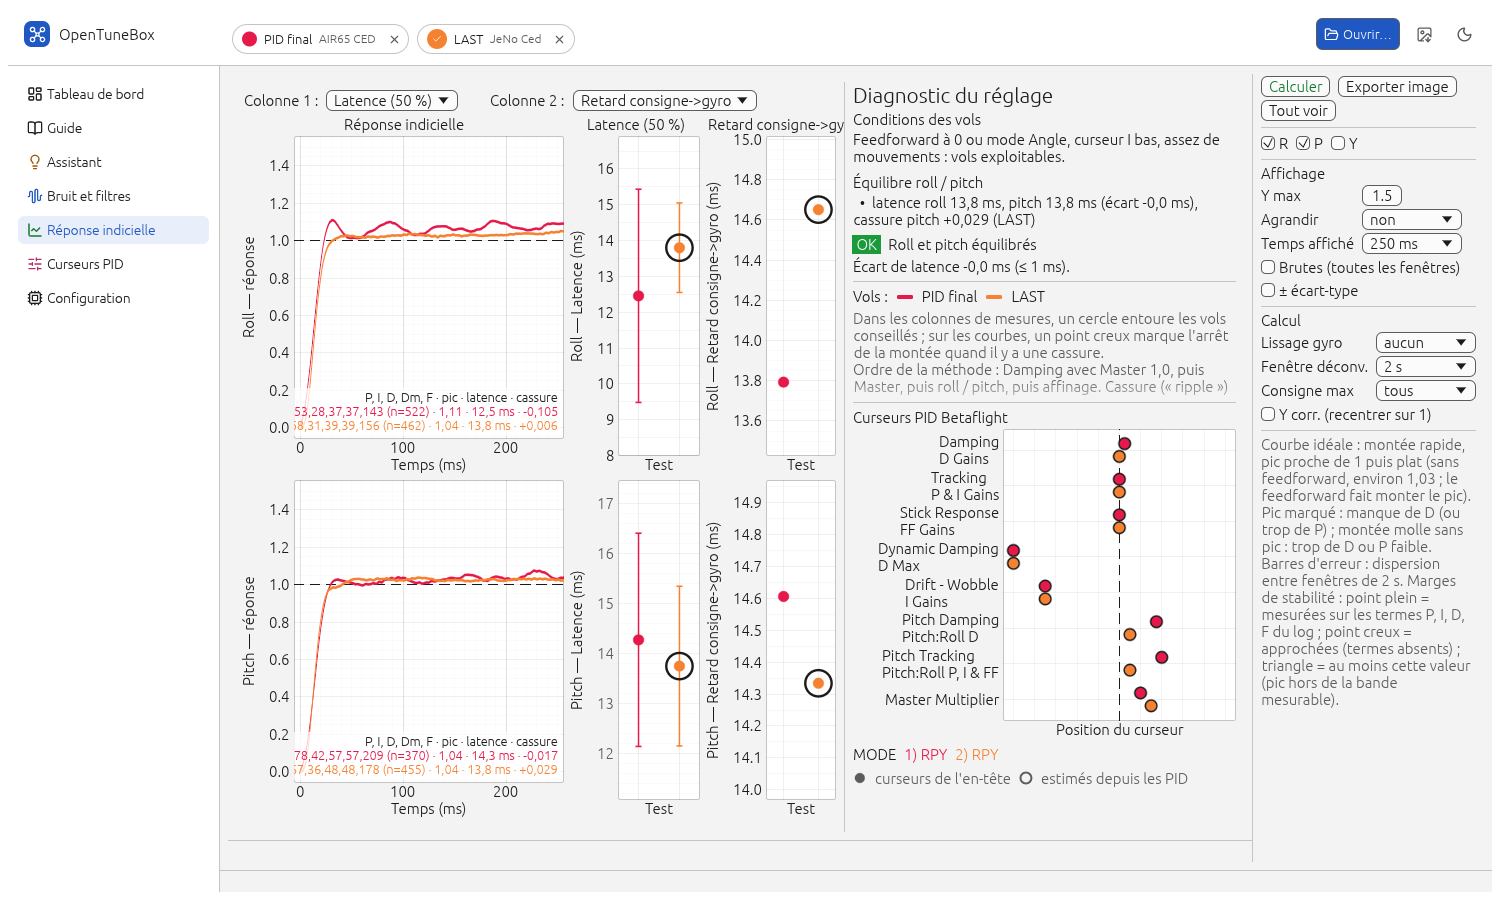
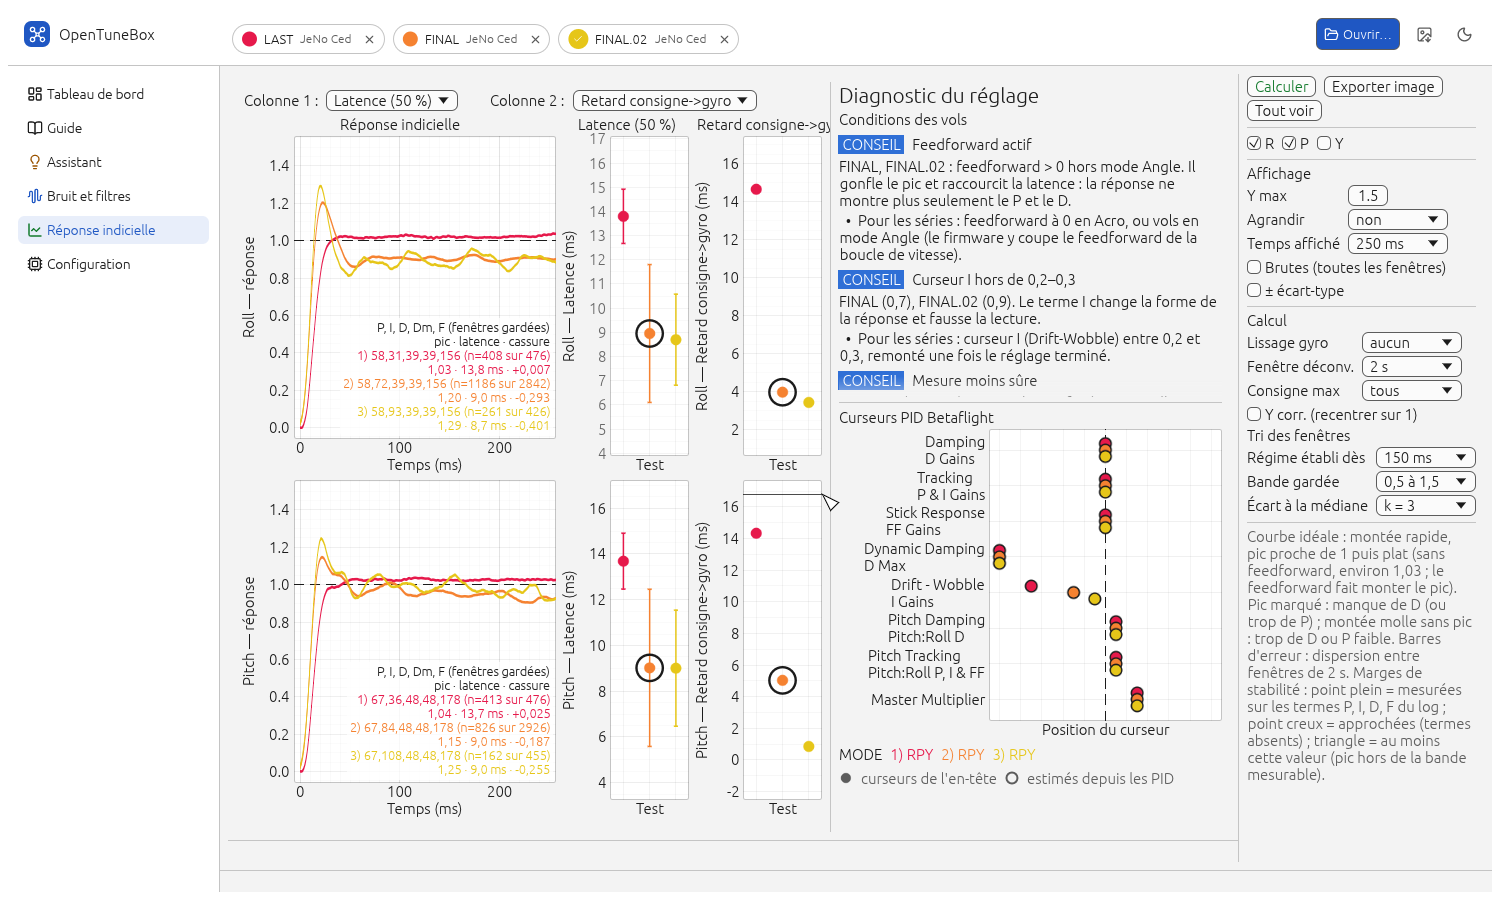
Refaire les captures du README sans la page Curseurs PID
Réponse indicielle, Assistant et Guide montraient encore l'entrée « Curseurs PID »
dans le rail. Regénérées avec l'exemple capture (LAST.bbl + FINAL.bbl ; LAST.bbl
seul pour l'Assistant ; fiche du Guide en mémoire). L'exemple vide maintenant la
barre d'état avant les captures du Guide, qui gardait le message de l'essai des
fragments.

diff --git a/rust/otb-gui/examples/capture.rs b/rust/otb-gui/examples/capture.rs
@@ -191,6 +191,9 @@ fn main() {
         fiche.pid_khz = 3.2;
         h.state_mut().put_card(fiche);
         h.state_mut().guide.select_by_name(&nom);
+        // barre d'état vide pour le guide et les pages (les messages de l'essai des fragments n'ont rien à y faire) : `open` sans fichier
+        // ne fait que l'effacer
+        h.state_mut().open(Vec::new());
         h.state_mut().screen = Screen::Guide;
         for phase in [otb_gui::guide::HOME, "prep", "filters", "pid"] {
             h.state_mut().guide.phase = phase;
@@ -213,9 +216,6 @@ fn main() {
             .save(out.join(format!("tableau-de-bord-releve-{}.png", th.name)))
             .unwrap();
         h.state_mut().screen = Screen::Guide;
-        // barre d'état vide pour les pages (les messages de l'essai des fragments n'ont rien à y faire) : `open` sans fichier
-        // ne fait que l'effacer
-        h.state_mut().open(Vec::new());
         // un outil après l'autre : on attend la fin de son calcul avant de regarder
         for i in 0..h.state().pages.len() {
             h.state_mut().screen = Screen::Tool(i);
